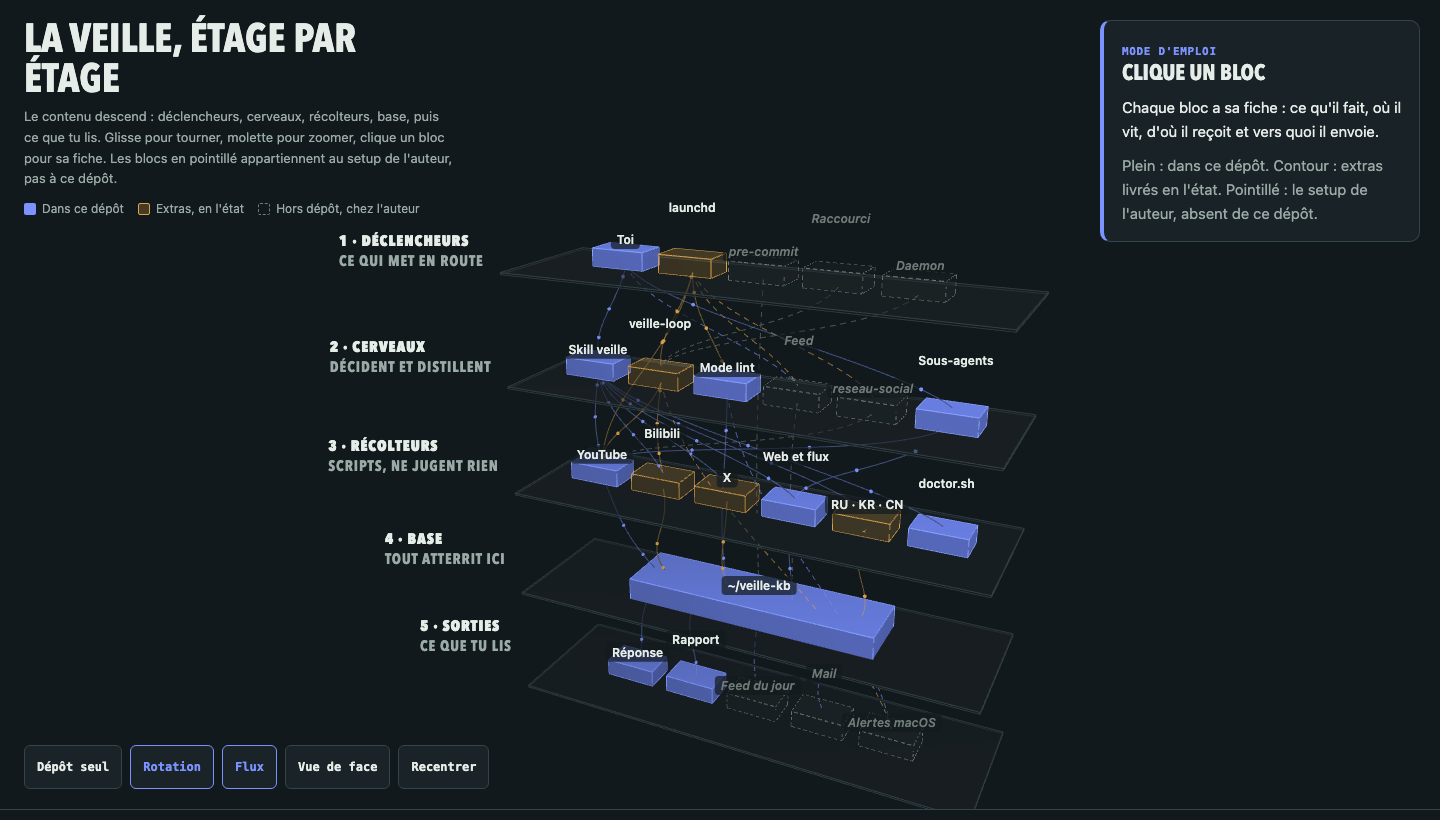
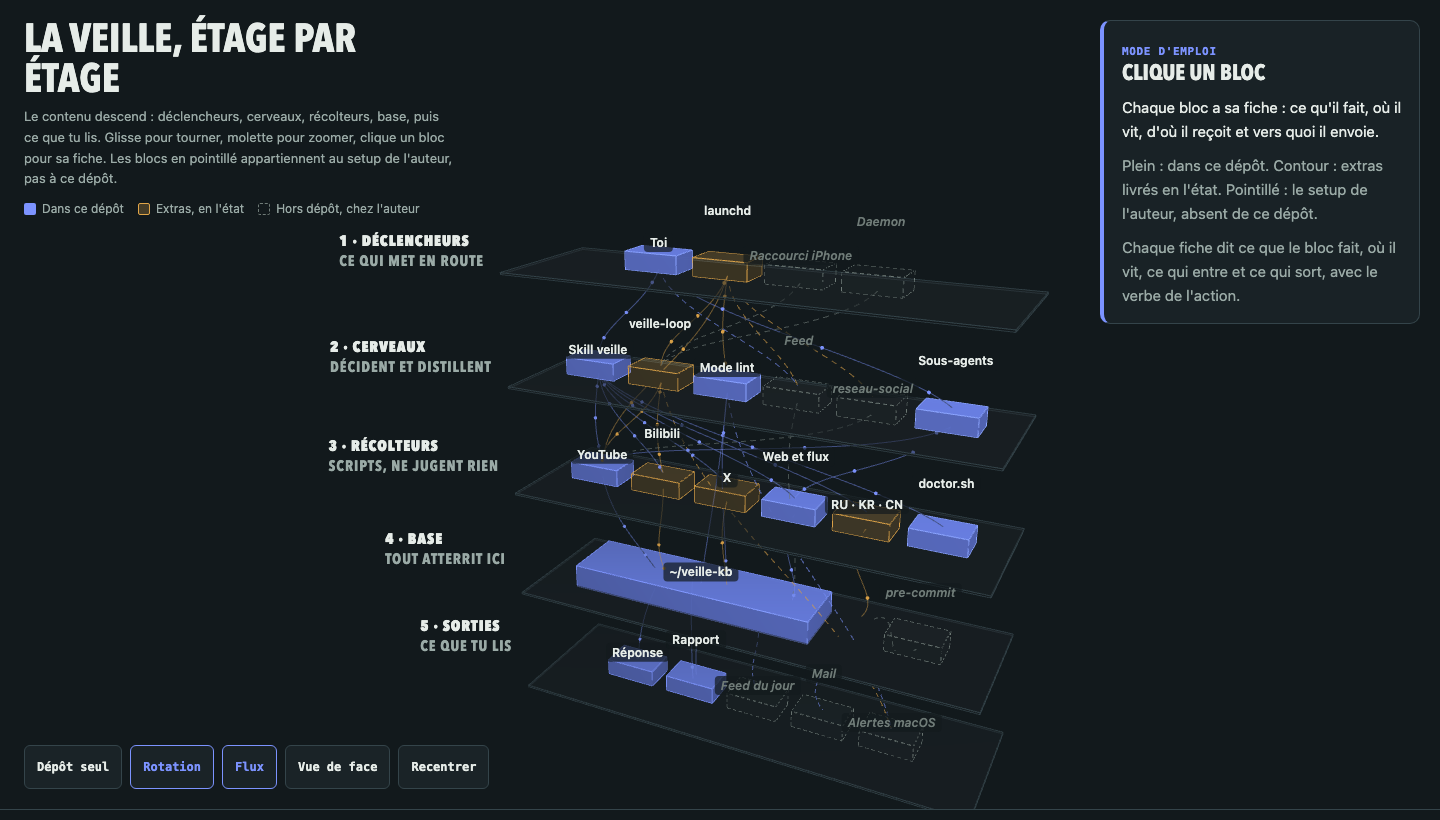
docs: chaque bloc expliqué, chaque lien avec son verbe
Les fiches étaient trop courtes pour être comprises hors de ma tête. Chaque
bloc dit maintenant ce qu'il fait, où il vit, quand il tourne, et ce qu'il ne
fait pas. Le pré-commit quitte l'étage des déclencheurs pour celui de la base :
ce n'est pas un déclencheur de la veille, c'est un garde-fou qui s'exécute
quand on commite dans la base, et la fiche le dit explicitement.

Les connexions portent un verbe : « youtube écrit les transcripts bruts dans
_bruts/ », « le skill lui demande les dernières vidéos », « les sous-agents lui
font récolter les vidéos par un sous-agent dédié ». La fiche affiche deux
listes, ce qui entre et ce qui sort, avec le nom du bloc d'en face et l'action.

Carte recapturée en 1440 et 390, image du README refaite.

diff --git a/docs/guide.html b/docs/guide.html
@@ -686,244 +686,249 @@ d'après ma veille, qu'est-ce qui a changé sur les agents cet automne ?</code><
       const NOEUDS = [
         {
           id: "toi",
-          court: "Toi",
           c: "decl",
           e: "depot",
+          court: "Toi",
           nom: "Toi",
-          d: "Dans ton agent, tu écris /veille <sujet>, « cherche dans ma veille … » ou « lint ma veille ». Le skill demande toujours quelles sources activer avant de récolter.",
+          d: "Tu écris dans ton agent : « /veille serveurs MCP », « fais une veille sur … », « cherche dans ma veille … » ou « lint ma veille ». Le skill te répond par une question à choix multiples, tu coches les sources et les items qui t'intéressent, et il travaille. Tu peux aussi coller des URLs de tweets ou de vidéos dans le même message : elles arrivent comme sources déjà choisies.",
           p: "skill/SKILL.md",
         },
         {
           id: "launchd",
-          court: "launchd",
           c: "decl",
           e: "extras",
+          court: "launchd",
           nom: "launchd",
-          d: "L'ordonnanceur de macOS. Le modèle fourni lance une récolte par jour, sans process résident. Sans lui, tout se lance à la main.",
+          d: "L'ordonnanceur de macOS. Le dépôt fournit un modèle de tâche qui lance la récolte une fois par jour, à l'heure que tu choisis. Sans lui, tu lances tout à la main et rien n'est prêt le matin. Ce n'est pas un daemon : rien ne reste en mémoire entre deux déclenchements, macOS réveille la tâche puis la laisse s'éteindre.",
           p: "skill/extras/automatisation/veille-loop.plist.example",
         },
         {
-          id: "hook",
-          court: "hook",
-          c: "decl",
-          e: "perso",
-          nom: "pre-commit",
-          d: "Un hook git posé sur la base : il refuse une note sans front-matter complet, ou une ligne ajoutée avec un tiret cadratin. Garde-fou d'écriture personnel, pas livré ici.",
-        },
-        {
           id: "webhook",
-          court: "iPhone",
           c: "decl",
           e: "perso",
-          nom: "Raccourci",
-          d: "Un Raccourci qui ajoute une URL à un fichier iCloud, que launchd surveille : la vidéo envoyée depuis le téléphone passe en tête de la récolte du matin. Bricolage personnel.",
+          court: "iPhone",
+          nom: "Raccourci iPhone",
+          d: "Un Raccourci qui écrit une URL dans un fichier iCloud. launchd surveille ce fichier : la vidéo que tu partages depuis ton téléphone entre donc en tête de la récolte suivante, sans que tu ouvres un terminal. Bricolage personnel de l'auteur, absent du dépôt.",
         },
         {
           id: "daemon",
-          court: "Daemon",
           c: "decl",
           e: "perso",
+          court: "daemon",
           nom: "Daemon",
-          d: "Aucun process résident, et c'est voulu : pour une récolte quotidienne, un déclencheur de fichier suffit.",
+          d: "Aucun process résident, et c'est un choix : pour une récolte quotidienne, un déclencheur de fichier suffit et ne consomme rien entre deux runs. Un daemon n'apporterait qu'une chose à surveiller, donc une panne de plus.",
         },
 
         {
           id: "skill",
-          court: "Skill",
           c: "cerv",
           e: "depot",
+          court: "skill",
           nom: "Skill veille",
-          d: "Le chef d'orchestre : choix des sources, sélection humaine des items, distillation, synthèse par sujet. Trois modes, récolter, chercher, linter.",
+          d: "Le chef d'orchestre, et le seul fichier à lire pour comprendre l'outil. Il demande quelles sources activer, dérive les requêtes du sujet, te montre les titres trouvés, attend ta sélection, lance les récolteurs, distille chaque item en une note française, puis réécrit la synthèse du sujet. Trois modes : récolter, chercher, linter. C'est lui qui décide, les scripts ne font qu'exécuter.",
           p: "skill/SKILL.md",
         },
         {
           id: "loop",
-          court: "loop",
           c: "cerv",
           e: "extras",
+          court: "loop",
           nom: "veille-loop",
-          d: "Un agent autonome qui distille la récolte du matin sans toi, puis commite en local sans jamais pousser. Le modèle et les règles de permission sont à adapter à ton agent.",
+          d: "Un agent autonome qui rejoue la distillation sans toi : il prend la récolte déposée dans le staging, la transforme en notes, met à jour la synthèse, puis commite dans la base. Il ne pousse jamais. Le modèle, les règles de permission et l'heure de passage sont à adapter : tel quel, c'est la configuration de l'auteur.",
           p: "skill/extras/automatisation/loop-cron.sh",
         },
         {
           id: "lint",
-          court: "lint",
           c: "cerv",
           e: "depot",
+          court: "lint",
           nom: "Mode lint",
-          d: "Un contrôle de santé par sujet, en lecture seule : contradictions, affirmations périmées, notes orphelines, liens morts. C'est un mode du skill, pas un script séparé.",
+          d: "Un mode du skill, pas un script séparé. Il relit les notes d'un sujet et cherche quatre défauts : deux notes qui se contredisent, une affirmation devenue fausse, une note que plus aucune synthèse ne cite, un lien mort. Il n'écrit jamais dans les notes : il produit un rapport daté que tu lis et que tu arbitres.",
           p: "skill/SKILL.md",
         },
         {
           id: "doom",
-          court: "feed",
           c: "cerv",
           e: "perso",
+          court: "feed",
           nom: "Feed",
-          d: "Un feed tiré de la base, avec des analyses de fond et des brouillons de posts. Skill personnelle, pas dans ce dépôt.",
+          d: "Un feed quotidien tiré de la base, avec des analyses de fond et des brouillons de posts. Skill personnelle de l'auteur, elle n'est pas dans le dépôt.",
         },
         {
           id: "rs",
-          court: "réseau",
           c: "cerv",
           e: "perso",
+          court: "réseau",
           nom: "reseau-social",
-          d: "Le rafraîchissement des corpus de créateurs suivis, résumés puis envoyés par mail au-delà d'un seuil. Personnel, pas dans ce dépôt.",
+          d: "Le rafraîchissement des corpus de créateurs suivis : il récupère les nouveaux posts, les résume avec un modèle, et envoie un mail quand le volume dépasse un seuil. Personnel, absent du dépôt.",
         },
         {
           id: "agents",
-          court: "agents",
           c: "cerv",
           e: "depot",
+          court: "agents",
           nom: "Sous-agents",
-          d: "Les sous-agents de ton agent : un par sujet pour un run complet, un pour un chantier sur la base. Le skill décrit comment les découper, tu écris les tiens.",
+          d: "Un sous-agent, c'est un agent que ton agent principal lance à part, avec sa propre tâche et son propre contexte : il travaille pendant que tu fais autre chose, et il rend un résultat que l'agent principal relit. Ici, un sous-agent par sujet traite un run complet (récolte, distillation, synthèse) ; un autre type prend un chantier sur la base (corriger, fusionner, compléter). Le skill décrit comment les découper et ce qu'ils doivent rendre ; les fichiers de sous-agents, eux, s'écrivent dans ton agent.",
           p: "skill/SKILL.md",
         },
 
         {
           id: "yt",
-          court: "YouTube",
           c: "recol",
           e: "depot",
+          court: "YouTube",
           nom: "YouTube",
-          d: "ytkb (Rust) par-dessus yt-dlp : lister une chaîne, trier par date, prendre les transcripts, et gérer les cas où YouTube exige une session.",
+          d: "ytkb est un binaire Rust livré dans le dépôt, posé par-dessus yt-dlp. Il liste les dernières vidéos d'une chaîne, trie par date, écarte celles déjà ingérées, récupère le transcript, et gère les deux cas qui font échouer un run : YouTube qui exige une session (--cookies-from-browser) et YouTube qui sert un doublage (--lang en). Il écrit un JSON par vidéo et ne juge pas le contenu.",
           p: "ytkb/",
         },
         {
           id: "bili",
-          court: "bili",
           c: "recol",
           e: "extras",
+          court: "bili",
           nom: "Bilibili",
-          d: "yt-dlp y prend un 412 : il faut un outil dédié, puis whisper quand les sous-titres demandent un compte.",
+          d: "Bilibili refuse yt-dlp avec un 412 : il faut un outil dédié pour lister, puis whisper quand les sous-titres ne sont pas publics. Le script de récolte de l'auteur enchaîne les deux et plafonne le volume. Livré en l'état, non garanti hors de sa machine.",
           p: "skill/extras/automatisation/loop-harvest.sh",
         },
         {
           id: "x",
-          court: "X",
           c: "recol",
           e: "extras",
+          court: "X",
           nom: "X",
-          d: "X par URLs collées, via FxTwitter, gratuit et sans clé. La veille ne cherche pas sur X : tu colles les tweets qui t'intéressent.",
+          d: "X ne se cherche pas : tu colles les URLs des tweets qui t'intéressent. fx.mjs appelle FxTwitter, qui rend le tweet en JSON sans clé ni compte, et écrit le texte brut. Gratuit, mais dépend d'un service tiers qui peut fermer.",
           p: "skill/extras/fx.mjs",
         },
         {
           id: "web",
-          court: "Web",
           c: "recol",
           e: "depot",
+          court: "web",
           nom: "Web et flux",
-          d: "curl et deux scripts python : flux RSS et Atom, Google News, Hacker News, Reddit, GitHub. Aucune clé, aucune dépendance hors stdlib.",
+          d: "Le récolteur le plus simple, et le modèle à copier pour ajouter une source. fetch_feeds.py lit ta liste de flux, interroge chaque URL, et sort un TSV d'une ligne par item : date, source, titre, URL, résumé de 300 caractères. rss2ndjson.py fait le même travail en NDJSON pour un flux isolé. Aucune clé, aucune dépendance hors de la bibliothèque standard.",
           p: "skill/fetch_feeds.py",
         },
         {
           id: "intl",
-          court: "RU·KR·CN",
           c: "recol",
           e: "extras",
+          court: "RU·KR·CN",
           nom: "RU · KR · CN",
-          d: "Chine, Corée, Russie, Yandex : V2EX, Xiaohongshu, velog, Brunch, Kakao, Habr, Telegram, VK. Chaque source a ses conditions d'accès, décrites dans la note.",
+          d: "Quatre familles de sources qui demandent chacune un accès particulier : Chine (V2EX, Xiaohongshu, presse zh-CN), Corée (velog, Brunch, Kakao), Russie (Habr, Telegram, VK) et Yandex. La note dit, pour chaque source, ce qu'il faut (clé, session, outil) et ce qui casse. Livré en l'état.",
           p: "skill/extras/sources-avancees.md",
         },
         {
           id: "doctor",
-          court: "doctor",
           c: "recol",
           e: "depot",
+          court: "doctor",
           nom: "doctor.sh",
-          d: "Avant toute récolte : un tableau SOURCE / ÉTAT / DÉTAIL / RÉPARATION. Lecture seule, zéro requête réseau, une commande de réparation par panne.",
+          d: "Ne récolte rien : il vérifie. Lecture seule, zéro requête réseau, il rend un tableau SOURCE / ÉTAT / DÉTAIL / RÉPARATION avec une commande exacte par panne. À lancer avant chaque récolte : récolter sur une source KO ne donne rien et fait perdre du temps.",
           p: "skill/doctor.sh",
         },
 
         {
           id: "kb",
-          court: "KB",
           c: "base",
           e: "depot",
+          court: "KB",
           nom: "~/veille-kb",
           large: true,
-          d: "La base : un dossier par sujet, des bruts horodatés, des notes distillées, une synthèse qui se réécrit. Dépôt git local, pour que rien ne se perde et que tout se diff.",
+          dx: -3,
+          d: "Le dossier qui contient tout. Un sous-dossier par sujet, avec les bruts horodatés, les notes distillées, un _index.md des sources déjà ingérées, et une SYNTHESIS.md réécrite à chaque run. C'est un dépôt git : chaque passe est un commit, tu peux revenir en arrière et voir ce qui a changé. Rien n'en sort sans que tu le décides.",
           p: "$VEILLE_KB (défaut ~/veille-kb)",
+        },
+        {
+          id: "hook",
+          c: "base",
+          e: "perso",
+          court: "hook",
+          nom: "pre-commit",
+          dx: 7.5,
+          d: "Ce n'est pas un déclencheur de la veille, c'est un garde-fou posé sur la base. Un hook git s'exécute quand toi tu commites dans ~/veille-kb : celui-ci refuse le commit si une note n'a pas son front-matter complet (titre, URL, source, date) ou si une ligne ajoutée contient un tiret cadratin, une typographie que l'auteur bannit partout. Il ne fait pas partie du dépôt, et il ne déclenche aucune récolte.",
         },
 
         {
           id: "cherche",
-          court: "réponse",
           c: "sort",
           e: "depot",
+          court: "réponse",
           nom: "Réponse",
-          d: "Une réponse qui ne vient que de la base, notes citées. Le skill dit franchement quand la base ne contient pas la réponse.",
+          d: "Le mode lecture du skill. Il ne récolte rien, il répond : tu poses une question, il cherche dans les notes du sujet, et il répond en citant les fichiers et les URLs. S'il ne trouve pas dans la base, il le dit, il ne va pas chercher sur le web pour combler le trou.",
+          p: "skill/SKILL.md",
         },
         {
           id: "rapport",
-          court: "rapport",
           c: "sort",
           e: "depot",
+          court: "rapport",
           nom: "Rapport",
-          d: "Le compte rendu du mode lint : ce qui se contredit, ce qui a vieilli, ce qui a perdu ses liens. Daté, rangé dans _lint-reports/.",
+          d: "Le compte rendu du mode lint : ce qui se contredit, ce qui a vieilli, ce qui a perdu ses liens. Daté, rangé dans _lint-reports/. Le skill ne corrige pas tout seul, c'est toi qui tranches.",
         },
         {
           id: "feed",
-          court: "feed",
           c: "sort",
           e: "perso",
+          court: "feed",
           nom: "Feed du jour",
           d: "Le feed quotidien tiré de la base. Personnel.",
         },
         {
           id: "mail",
-          court: "mail",
           c: "sort",
           e: "perso",
+          court: "mail",
           nom: "Mail",
-          d: "L'envoi par mail des résumés au-delà d'un seuil. Personnel.",
+          d: "L'envoi par mail des résumés au-delà d'un seuil de volume. Personnel.",
         },
         {
           id: "alerte",
-          court: "alertes",
           c: "sort",
           e: "perso",
+          court: "alertes",
           nom: "Alertes macOS",
           d: "Les notifications de panne : récolte sans succès depuis 48 h, lint sans rapport, sources KO. Personnel.",
         },
       ];
 
+      // Chaque lien se lit comme une phrase : A fait ceci à B.
       const LIENS = [
-        ["toi", "skill"],
-        ["toi", "agents"],
-        ["toi", "doom"],
-        ["launchd", "loop"],
-        ["launchd", "lint"],
-        ["launchd", "doom"],
-        ["launchd", "rs"],
-        ["hook", "kb"],
-        ["webhook", "loop"],
-        ["launchd", "yt"],
-        ["daemon", "loop"],
-        ["skill", "yt"],
-        ["skill", "bili"],
-        ["skill", "x"],
-        ["skill", "web"],
-        ["skill", "intl"],
-        ["skill", "doctor"],
-        ["loop", "yt"],
-        ["loop", "bili"],
-        ["rs", "yt"],
-        ["agents", "web"],
-        ["agents", "yt"],
-        ["yt", "kb"],
-        ["bili", "kb"],
-        ["x", "kb"],
-        ["web", "kb"],
-        ["intl", "kb"],
-        ["lint", "kb"],
-        ["doom", "kb"],
-        ["kb", "cherche"],
-        ["kb", "feed"],
-        ["kb", "rapport"],
-        ["kb", "mail"],
-        ["loop", "alerte"],
-        ["lint", "alerte"],
+        ["toi", "skill", "lui donne le sujet, les sources cochées et les URLs collées"],
+        ["toi", "agents", "lui confie un sujet entier, à traiter en parallèle"],
+        ["toi", "doom", "lui demande le feed du jour"],
+        ["launchd", "loop", "réveille l'agent une fois par jour, sans toi"],
+        ["launchd", "lint", "déclenche le contrôle de santé hebdomadaire"],
+        ["launchd", "doom", "déclenche le feed du matin"],
+        ["launchd", "rs", "déclenche le rafraîchissement des corpus"],
+        ["launchd", "yt", "déclenche la récolte des nouvelles vidéos"],
+        ["webhook", "loop", "dépose une URL dans le staging, que l'agent trouve au réveil"],
+        ["hook", "kb", "refuse un commit si une note est incomplète"],
+        ["daemon", "loop", "ne fait rien : aucun process ne tourne entre deux runs"],
+        ["skill", "yt", "lui demande les dernières vidéos de chaque chaîne, puis les transcripts"],
+        ["skill", "bili", "lui demande les vidéos Bilibili et leurs sous-titres"],
+        ["skill", "x", "lui passe les URLs de tweets à convertir en texte"],
+        ["skill", "web", "lui donne la liste des flux à interroger"],
+        ["skill", "intl", "lui demande les sources chinoises, coréennes et russes"],
+        ["skill", "doctor", "lui demande l'état de chaque source avant de récolter"],
+        ["loop", "yt", "récolte les nouvelles vidéos sans passer par toi"],
+        ["loop", "bili", "récolte les vidéos Bilibili du jour"],
+        ["rs", "yt", "prend les nouvelles vidéos des créateurs suivis"],
+        ["agents", "web", "lui fait récolter les flux par un sous-agent dédié"],
+        ["agents", "yt", "lui fait récolter les vidéos par un sous-agent dédié"],
+        ["yt", "kb", "écrit les transcripts bruts dans _bruts/"],
+        ["bili", "kb", "écrit les transcripts bruts dans _bruts/"],
+        ["x", "kb", "écrit le texte des tweets dans _bruts/"],
+        ["web", "kb", "écrit les articles et les items de flux dans _bruts/"],
+        ["intl", "kb", "écrit les items traduits dans _bruts/"],
+        ["lint", "kb", "lit les notes et les synthèses, sans jamais les modifier"],
+        ["doom", "kb", "lit les notes pour composer le feed"],
+        ["kb", "cherche", "fournit les notes et les synthèses à citer"],
+        ["kb", "feed", "fournit la matière du feed du jour"],
+        ["kb", "mail", "fournit les résumés à envoyer"],
+        ["lint", "rapport", "écrit le compte rendu daté"],
+        ["rapport", "kb", "range le rapport dans _lint-reports/"],
+        ["loop", "alerte", "prévient en cas d'échec de la récolte"],
+        ["lint", "alerte", "prévient quand le contrôle de santé échoue"],
       ];
 
       const reduit = matchMedia("(prefers-reduced-motion: reduce)").matches;
@@ -1010,7 +1015,11 @@ d'après ma veille, qu'est-ce qui a changé sur les agents cet automne ?</code><
             opacity: perso ? 0.05 : extras ? 0.3 : 0.95,
           });
           const mesh = new THREE.Mesh(geo, mat);
-          mesh.position.set((i - (membres.length - 1) / 2) * pas, c.y, 0);
+          mesh.position.set(
+            n.dx !== undefined ? n.dx : (i - (membres.length - 1) / 2) * pas,
+            c.y,
+            0,
+          );
           const aretes = new THREE.LineSegments(
             new THREE.EdgesGeometry(geo),
             perso
@@ -1052,7 +1061,7 @@ d'après ma veille, qu'est-ce qui a changé sur les agents cet automne ?</code><
       });
 
       // Liens et flux
-      const liens = LIENS.map(([a, b]) => {
+      const liens = LIENS.map(([a, b, verbe]) => {
         const A = parId[a],
           B = parId[b];
         const decal = (B.mesh.position.x - A.mesh.position.x) * 0.15;
@@ -1095,6 +1104,7 @@ d'après ma veille, qu'est-ce qui a changé sur les agents cet automne ?</code><
         return {
           a,
           b,
+          verbe,
           pointille,
           courbe,
           ligne,
@@ -1127,24 +1137,23 @@ d'après ma veille, qu'est-ce qui a changé sur les agents cet automne ?</code><
           fiche.style.setProperty("--c", tok("--depot"));
           fiche.innerHTML = `<span class="nature">Mode d'emploi</span><h2>Clique un bloc</h2>
       <p>Chaque bloc a sa fiche : ce qu'il fait, où il vit, d'où il reçoit et vers quoi il envoie.</p>
-      <p class="vide">Plein : dans ce dépôt. Contour : extras livrés en l'état. Pointillé : le setup de l'auteur, absent de ce dépôt.</p>`;
+      <p class="vide">Plein : dans ce dépôt. Contour : extras livrés en l'état. Pointillé : le setup de l'auteur, absent de ce dépôt.</p>
+      <p class="vide">Chaque fiche dit ce que le bloc fait, où il vit, ce qui entre et ce qui sort, avec le verbe de l'action.</p>`;
           return;
         }
-        const entrants = liens
-          .filter((l) => l.b === n.id)
-          .map((l) => nomDe(l.a));
-        const sortants = liens
-          .filter((l) => l.a === n.id)
-          .map((l) => nomDe(l.b));
-        const liste = (t) =>
+        const entrees = liens.filter((l) => l.b === n.id);
+        const sorties = liens.filter((l) => l.a === n.id);
+        const liste = (t, autre) =>
           t.length
-            ? `<ul>${t.map((x) => `<li>${x}</li>`).join("")}</ul>`
+            ? `<ul>${t
+                .map((l) => `<li><b>${nomDe(autre(l))}</b> · ${l.verbe}</li>`)
+                .join("")}</ul>`
             : `<p class="vide">rien</p>`;
         fiche.classList.remove("repos");
         fiche.style.setProperty("--c", ETATS[n.e].c);
         fiche.innerHTML = `<span class="nature">${ETATS[n.e].nom}</span><h2>${n.nom}</h2>
     <p>${n.d.replace(/</g, "&lt;")}</p>${n.p ? `<p><code>${n.p}</code></p>` : ""}
-    <h3>Reçoit de</h3>${liste(entrants)}<h3>Envoie vers</h3>${liste(sortants)}`;
+    <h3>Ce qui entre</h3>${liste(entrees, (l) => l.a)}<h3>Ce qui sort</h3>${liste(sorties, (l) => l.b)}`;
       }
 
       let survol = null,
